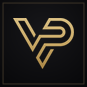
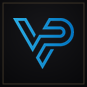
Use brand-blue monogram for the pass (per design decision)
- generate-assets: LOGO -> master-logo-brand.png (azul de marca)
- Regenerados icon/logo/thumbnail/strip en azul; web logo -> public/vp/logo.png
- Landing referencia /vp/logo.png; README actualizado (azul en uso, oro/blanco como variantes)
- Preview del pase regenerado con el monograma azul

Claude-Session: https://claude.ai/code/session_011Z5zsQ1gikRjGcvNFF4J1E

Changed region(s): [[0.1379, 0.2069, 0.8506, 0.8046]]

diff --git a/wallet/README.md b/wallet/README.md
@@ -48,10 +48,10 @@ wallet/
 ├── data/
 │   └── contact.json                  ← EDITA AQUÍ (fuente única de verdad)
 ├── assets/
-│   ├── logo-vp-original.png          ← logo real de la marca (de Google Drive)
-│   ├── master-logo-gold.png          ← monograma recoloreado a oro (generado)
-│   ├── master-logo-white.png         ← variante blanca (generado)
-│   └── master-logo-brand.png         ← azul de marca, recortado (generado)
+│   ├── logo-vp-original.png          ← logo real de la marca (azul, fondo blanco)
+│   ├── master-logo-brand.png         ← azul de marca, transparente ← EN USO
+│   ├── master-logo-gold.png          ← variante oro (generado)
+│   └── master-logo-white.png         ← variante blanca (generado)
 ├── pass/
 │   └── VelozPichardo.pass/           ← "carpeta cruda" del pase
 │       ├── pass.json                 ← generado desde contact.json
@@ -138,7 +138,7 @@ Generado por `scripts/build-pass-json.mjs`. Estructura (valores reales en el arc
 
 | Zona | Campo | Contenido | Color |
 | --- | --- | --- | --- |
-| **Frente** | logo (arriba-izq) | Monograma **VP** (tu logo real, en oro) | oro |
+| **Frente** | logo (arriba-izq) | Monograma **VP** (tu logo real, azul de marca) | azul |
 | | header | *(vacío)* | — |
 | | primary | **César José Veloz Pichardo** | blanco |
 | | secondary | `VELOZ PICHARDO ABOGADOS` → Managing Partner | oro / blanco |
@@ -166,7 +166,8 @@ mapa sean **tappables** directamente desde el reverso del pase.
 ## 4. Assets necesarios y dimensiones
 
 Todos se generan desde tu **logo real** (`logo-vp-original.png`) con `sharp`, sin fuentes
-externas (rasterizado determinista).
+externas (rasterizado determinista). Color aplicado: **azul de marca**. Para cambiar a oro
+o blanco, edita la constante `LOGO` en `scripts/generate-assets.mjs`.
 
 | Asset | @1x | @2x | @3x | Uso | ¿Requerido? |
 | --- | --- | --- | --- | --- | --- |
@@ -176,11 +177,11 @@ externas (rasterizado determinista).
 | `strip` | 312×123 | 624×246 | 936×369 | Cara full-bleed (solo variante storeCard) | No |
 
 **Reglas de imagen que respetamos:**
-- `icon` **no** transparente (se ve en lock screen): tile negro + monograma oro + filete.
+- `icon` **no** transparente (se ve en lock screen): tile negro + monograma + filete.
 - `logo` **sí** transparente: el monograma flota sobre el negro del pase.
 - Se entregan `@2x` y `@3x` (dispositivos modernos); `@1x` por compatibilidad.
-- El recolor a oro preserva la **geometría exacta** de tu marca (se usa el canal alfa
-  del PNG original como máscara; no se redibuja el trazo).
+- El monograma se **extrae del fondo blanco** (máscara por no-blancura con antialias) y se
+  recorta, preservando la **geometría exacta** de tu marca; no se redibuja el trazo.
 
 ---
 
@@ -324,8 +325,8 @@ para todos tus topics.
   fuentes → consistente, legible, nativo. Etiquetas en mayúsculas con tracking = tono premium.
 - **Espacio negativo.** Sin `logoText`, sin header, sin campos auxiliares. El vacío
   comunica lujo (código Centurion).
-- **Logo, no texto, para la marca.** El monograma VP real va como `logo` (arriba-izq),
-  reforzando identidad sin ruido.
+- **Logo, no texto, para la marca.** El monograma VP real (azul de marca) va como `logo`
+  (arriba-izq), reforzando identidad sin ruido. El oro queda para la tipografía de acento.
 - **Reverso = acción.** Todo lo "operativo" (contacto, enlaces, mapa) vive en el reverso,
   tappable. El frente se mantiene ceremonial.
 - **QR discreto.** El código de barras QR queda al pie; su `altText` da fallback textual.
